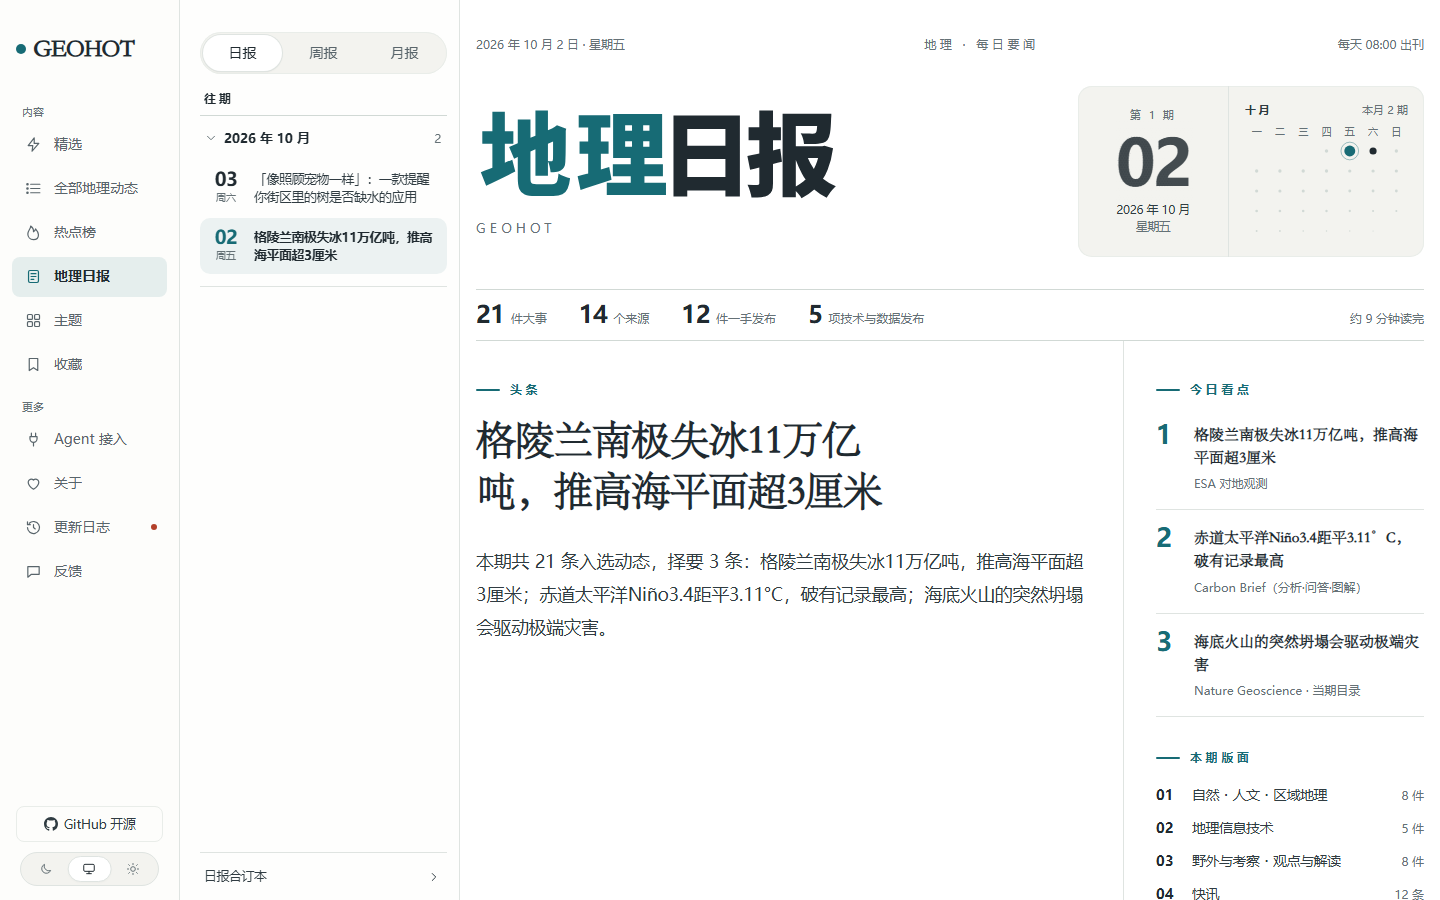
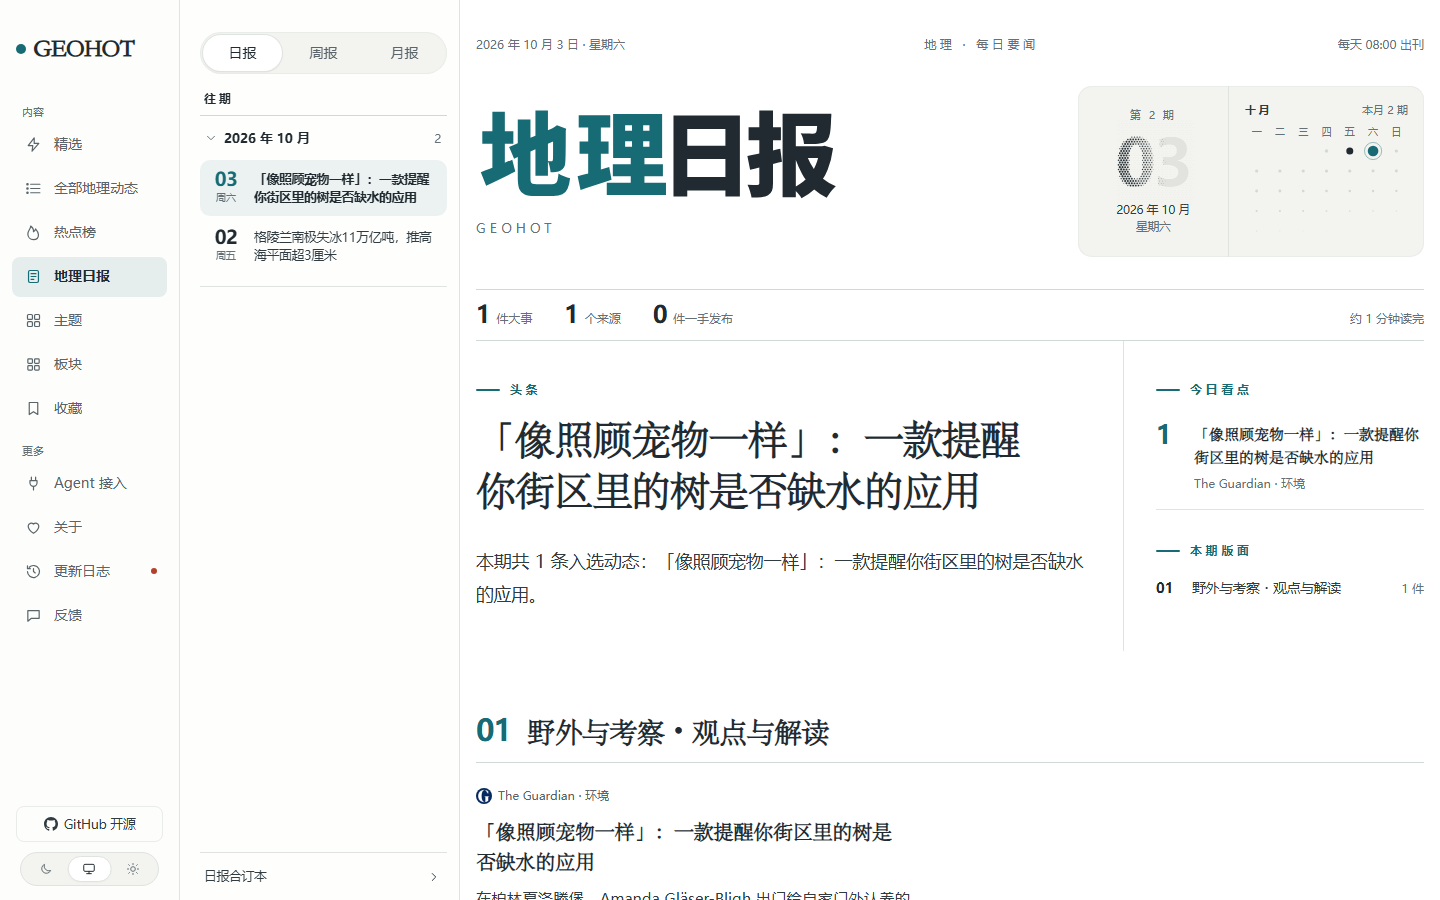
上线收尾：配图重拍与部署记录

diff --git a/README.md b/README.md
@@ -38,11 +38,10 @@
 ---
 
 <p align="center">
-  <img src="docs/shots/home-light.png" alt="首页精选：左侧导航、当前热点榜、按日期分组的精选卡片" width="100%">
+  <img src="docs/shots/home-light.png" alt="首页精选：左侧导航（含板块）、筛选栏含十个分类、按日期分组的精选卡片" width="100%">
 </p>
 <p align="center"><sub>
-  ▲ 首页「精选」· 截图摄于 **2026-10-03 11:52（+0800）**，路由 `/geohot/`，视口 1440×900，浅色主题 · 顶部「当前热点」是那一刻的前五条：1 四川宜宾高县 M4.5 地震（热度 8）、2 巴布亚新几内亚近海 M5.6、3 新喀里多尼亚近海 M5.5（各 6）、4 洛亚蒂群岛海域 M6.6（6）、5 巴布亚新几内亚深源 M6 级（5）——这个榜每 5 分钟重排一次，图里的数字只对那一刻成立。<br>
-  **这张图有一处已经不能代表本站**：图里第一张卡片（The Guardian·环境·入选分 83）整条是英文原文标题与英文摘要，那是当天 20:10 那一批文案修复（提交 `6bdb9fb`、`56c28d3`）之前的状态——2026-10-03 复核线上同一张卡片，标题已是中文（「像照顾宠物一样」：一款提醒你街区里的树是否缺水的应用），站上不再发布没有中文稿的条目。上面那句"每张卡片是来源、标题、摘要与推荐理由"因此是就代码现状说的，不是就这张图说的。**这一屏每天在变，线上地址才是事实来源**：`https://xxc2007.me/geohot/`。
+  ▲ 首页「精选」· 截图摄于 **2026-10-03 19:36（+0800）**，路由 `/geohot/`，视口 1440×900，浅色主题 · 那一刻**没有「当前热点」条**，因为热点榜是空的（原因见下表 `/hot` 那张图的说明）；时间线是 10月2日 1 条、10月1日 49 条，第一条是 The Guardian·环境、入选分 83 的《「像照顾宠物一样」：一款提醒你街区里的树是否缺水的应用》。筛选栏里已能看到这一轮新增的四个分类（地理与政治 / 地理与历史 / 考研 / 地理信息系统），侧栏多了「板块」。**这一屏每天在变，线上地址才是事实来源**：`https://xxc2007.me/geohot/`。
 </sub></p>
 
 ---
@@ -112,19 +111,17 @@
 还没做好的地方单独列了一份 [`docs/known-issues.md`](docs/known-issues.md)：被撤下的综述溯源校验器（会误删忠实内容）、GDACS 绿色通报的英文模板标题进了公开池、摘要质量闸门、以及上游文档与本站不符之处。这份清单不是免责声明，是待办列表。
 
 <p align="center">
-  <img src="docs/shots/hot-light.png" alt="地理热点榜：NO.01 大卡片带 24 小时热度曲线，右侧两张次条卡片" width="100%">
+  <img src="docs/shots/hot-light.png" alt="地理热点榜：那一刻的空状态——「暂时没有热点 · 还没有足够多来源共同讨论的事件」，页头写着更新时间" width="100%">
 </p>
 <p align="center"><sub>
-  ▲ 热点榜 `/hot` · 截图摄于 **2026-10-03 11:52（+0800）**，路由 `/geohot/hot`，视口 1440×900，浅色主题；那一刻过去 48 小时的讨论热度里排到 6 个事件，首位 NO.01 是四川宜宾高县 M4.5：中国地震台网中心速报目录、USGS 全球地震目录 M4.5+（近一周）等 3 个来源并成一个事件，热度指数 8、3 位参与者，次条 NO.02 标注 ↓15%。榜单每 5 分钟重排，页面顶部自己写更新到几分几秒。<br>
-  **图里的热度数字几小时就作废**：`hot.rank` 在 `apps/worker/src/schedules.ts:42` 上是 `*/5 * * * *`——这个榜每 5 分钟重排一次。2026-10-02 傍晚复核同一页是 10 个事件；2026-10-03 09:40 再复核又回到 6 个事件、NO.01 仍是那次 M4.5 但热度指数已经掉到 9。所以这一屏以线上为准：`https://xxc2007.me/geohot/hot`（或 `GET /api/v1/hot-topics`）。
+  ▲ 热点榜 `/hot` · 截图摄于 **2026-10-03 19:35（+0800）**，路由 `/geohot/hot`，视口 1440×900，浅色主题；那一刻榜是**空**的，页面自己写着「10月3日 19:35 更新 · 按讨论热度排序」与「暂时没有热点 · 还没有足够多来源共同讨论的事件」。这不是故障：上线的当天下午起，48 小时窗口里没有任何事件达到「至少两个独立参与方且至少一个是编辑类信源」这条门槛——当时窗口内 2639 个事件、24 个参与方，几乎每个预警各自成一个单来源事件；同一台库往前推 48–96 小时的那个窗口里有 6 个合格事件，所以榜在前一天是满的。榜单每 5 分钟重排，**这一屏以线上为准**：`https://xxc2007.me/geohot/hot`（或 `GET /api/v1/hot-topics`）。
 </sub></p>
 
 <p align="center">
-  <img src="docs/shots/daily-light.png" alt="地理日报头版：报头字、期号卡、导读与分节正文" width="100%">
+  <img src="docs/shots/daily-light.png" alt="地理日报头版（2026-10-03 第 2 期）：报头字、期号卡、导读与分节正文" width="100%">
 </p>
 <p align="center"><sub>
-  ▲ `/daily` · 截图摄于 **2026-10-03 11:53（+0800）**，视口 1440×900，浅色主题；拍的是固定地址 **`/daily/2026-10-02`（第 1 期）**，**不是 `/daily`**——`/daily` 是"最新一期"，明天就不是这一版了。这一期 21 件大事、14 个来源、12 件一手发布、5 项技术与数据发布，约 9 分钟读完，头条是格陵兰与南极失冰推高海平面，右侧导读三条，本期版面分三节。报头字「地理日报」是本站自己生成的 SVG（`scripts/nameplates.ts` 按 `SITE.subject` 出图）。<br>
-  **这张图里有一处英文**：导读段末尾的「Sudden collapse of submarine volcano drives extreme hazards。」和右侧「今日看点 3」的整条英文标题，是当天 20:10 那一批文案修复之前的状态。2026-10-03 复核线上 `/daily/2026-10-02`，那两处都已是中文（「海底火山的突然坍塌会驱动极端灾害」），整页正文里已找不到成句的英文标题。**线上才是事实来源**：`https://xxc2007.me/geohot/daily`。
+  ▲ `/daily` · 截图摄于 **2026-10-03 19:37（+0800）**，视口 1440×900，浅色主题；拍的是**那一刻的最新一期**（`/daily` 每天都换，这一版是 **2026-10-03 第 2 期**，固定地址 `/daily/2026-10-03`，左侧「往期」里 10月3日 高亮）。这一期 **1 件大事、1 个来源、0 件一手发布，约 1 分钟读完**，头条是《「像照顾宠物一样」：一款提醒你街区里的树是否缺水的应用》，本期版面只有一节：野外与考察 · 观点与解读，1 件。报头字「地理日报」是本站自己生成的 SVG（`scripts/nameplates.ts` 按 `SITE.subject` 出图）。**最新一期每天都换，线上才是事实来源**：`https://xxc2007.me/geohot/daily`。
 </sub></p>
 
 ## 🗂 站点结构

diff --git a/deploy/geohot/DEPLOYMENT.md b/deploy/geohot/DEPLOYMENT.md
@@ -217,3 +217,30 @@ curl -s -o /dev/null -w '%{http_code} %{num_redirects} %{url_effective}\n' -L ht
 - 新增 npm 依赖 → 提取代码后先在应用目录装依赖再构建：
   `sudo systemd-run --quiet --pipe --wait --uid=geohot --gid=geohot --property=MemoryMax=700M --property=MemorySwapMax=1500M --property=WorkingDirectory=/opt/geohot/app env HOME=/opt/geohot NODE_ENV=production npm install <pkg> -w @aihot/backend --no-audit --no-fund`
   只提取不装依赖，api/worker 会倒在 import 上（2026-10-02 新增 `marked` 时走的就是这条）。
+
+## 整包升级（2026-10-03 第八轮上线时走的顺序，可照抄）
+
+```bash
+# 本机：导出被验收过的 HEAD（不含 .env / .data，tar 也不含 git 元数据）
+git archive HEAD | gzip > /tmp/geohot-src.tar.gz
+scp -i ~/.ssh/xxc.pem /tmp/geohot-src.tar.gz xxc@<主机>:/tmp/
+
+# 服务器
+sudo tar -czf /opt/geohot/backups/app-$(date +%Y%m%d-%H%M%S).tar.gz -C /opt/geohot app   # 先备份
+sudo tar -xzf /tmp/geohot-src.tar.gz -C /opt/geohot/app --owner=geohot --group=geohot
+sudo chown -R geohot:geohot /opt/geohot/app          # ★ 见下面那条坑
+sudo -u geohot bash -lc 'cd /opt/geohot/app && node --env-file=.env scripts/migrate.ts'   # 有新迁移就先跑
+sudo -u geohot bash -lc 'cd /opt/geohot/app && node --env-file=.env scripts/seed.ts'      # 只增不改，可重复
+sudo -u geohot bash -lc 'cd /opt/geohot/app && BASE_PATH=/geohot NODE_ENV=production npm run build -w @aihot/web'
+sudo systemctl restart geohot-api geohot-worker geohot-web      # brain 没动就不重启
+cd /opt/geohot/app && sudo -u geohot bash deploy/geohot/verify-deploy.sh   # 必须 ALL CHECKS PASSED
+```
+
+**那条 `chown -R` 不是例行公事**：2026-10-03 第一次构建倒在
+`EACCES: permission denied, rmdir '/opt/geohot/app/apps/web/build'`——`build/` 自己是 geohot 的，
+但它的**父目录 `apps/web` 是 root 的**（早先某次 root 身份解包留下的），而 `react-router build` 要
+先删旧产物，删子目录要的是父目录的写权限。整包升级后一律把应用树交回 geohot，别等构建报错再查。
+
+**只动文档或 `industry/changelog.json` 的最小更新**：`industry/changelog.json` 是 **api 进程启动时读入**，
+改了它必须 `systemctl restart geohot-api`（否则 `/changelog` 发旧内容，状态码看不出来）；纯前端改动
+只需重建 + 重启 web；后端改动重启 api 与 worker。
